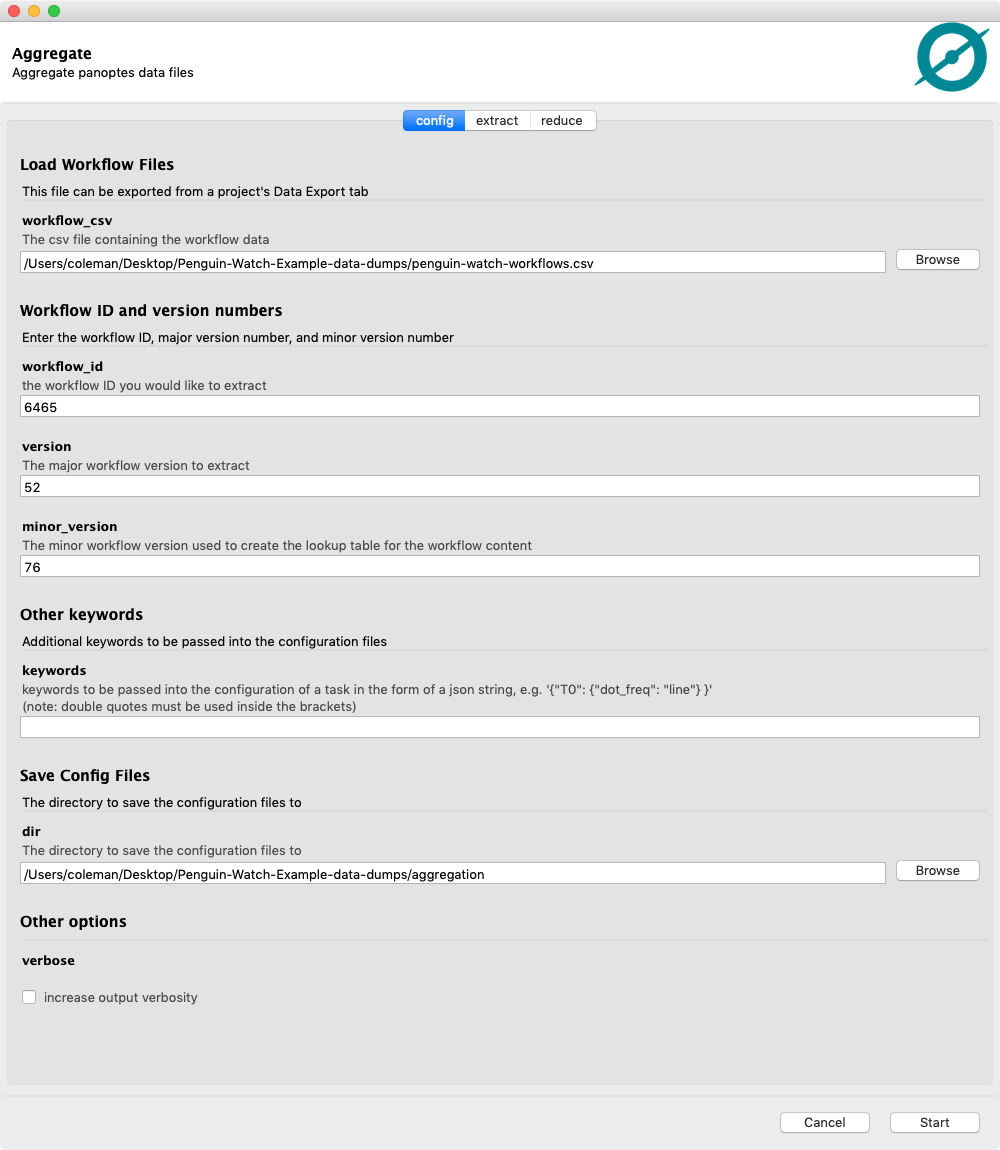
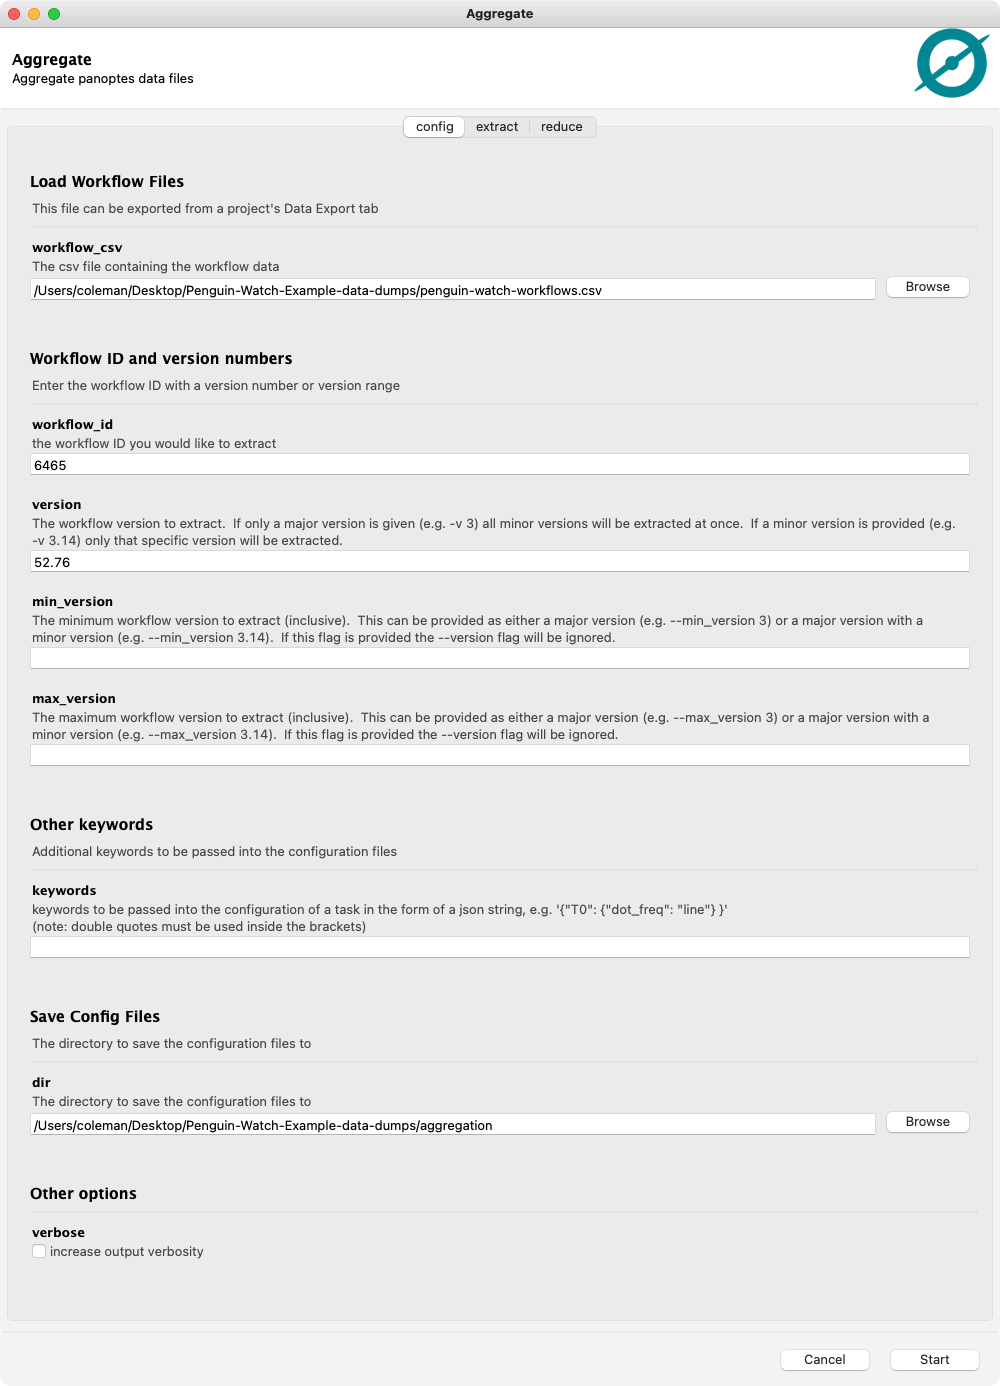
Update documentation
Including GUI screen shots.

diff --git a/panoptes_aggregation/scripts/aggregation_parser.py b/panoptes_aggregation/scripts/aggregation_parser.py
@@ -33,7 +33,7 @@ def main(args=None):
     )
     config_numbers = config_parser.add_argument_group(
         'Workflow ID and version numbers',
-        'Enter the workflow ID, major version number, and minor version number',
+        'Enter the workflow ID with a version number or version range',
         gooey_options={
             'show_border': False,
             'columns': 1

diff --git a/Scripts.md b/Scripts.md
@@ -41,7 +41,9 @@ Use the command line tool to make configuration `yaml` files that are used to se
 
 ```bash
 usage: panoptes_aggregation config [-h] [-d DIR] [-v VERSION]
-                                   [-m MINOR_VERSION] [-k KEYWORDS] [-vv]
+                                   [--min_version MIN_VERSION]
+                                   [--max_version MAX_VERSION] [-k KEYWORDS]
+                                   [-vv]
                                    workflow_csv workflow_id
 
 Make configuration files for panoptes data extraction and reduction based on a
@@ -60,10 +62,23 @@ Workflow ID and version numbers:
 
   workflow_id           the workflow ID you would like to extract
   -v VERSION, --version VERSION
-                        The major workflow version to extract
-  -m MINOR_VERSION, --minor_version MINOR_VERSION
-                        The minor workflow version used to create the lookup
-                        table for the workflow content
+                        The workflow version to extract. If only a major
+                        version is given (e.g. -v 3) all minor versions will
+                        be extracted at once. If a minor version is provided
+                        (e.g. -v 3.14) only that specific version will be
+                        extracted.
+  --min_version MIN_VERSION
+                        The minimum workflow version to extract (inclusive).
+                        This can be provided as either a major version (e.g.
+                        --min_version 3) or a major version with a minor
+                        version (e.g. --min_version 3.14). If this flag is
+                        provided the --version flag will be ignored.
+  --max_version MAX_VERSION
+                        The maximum workflow version to extract (inclusive).
+                        This can be provided as either a major version (e.g.
+                        --max_version 3) or a major version with a minor
+                        version (e.g. --max_version 3.14). If this flag is
+                        provided the --version flag will be ignored.
 
 Other keywords:
   Additional keywords to be passed into the configuration files
@@ -85,7 +100,7 @@ Other options:
 
 ### Example: Penguin Watch
 ```bash
-panoptes_aggregation config penguin-watch-workflows.csv 6465 -v 52 -m 76
+panoptes_aggregation config penguin-watch-workflows.csv 6465 -v 52.76
 ```
 
 This creates four files:
@@ -103,6 +118,7 @@ Use the command line tool to extract your data into one flat `csv` file for each
 
 ```bash
 usage: panoptes_aggregation extract [-h] [-d DIR] [-o OUTPUT] [-O]
+                                    [-c CPU_COUNT] [-vv]
                                     classification_csv extractor_config
 
 Extract data from panoptes classifications based on the workflow
@@ -125,6 +141,10 @@ What directory and base name should be used for the extractions:
 Other options:
   -O, --order           Arrange the data columns in alphabetical order before
                         saving
+  -c CPU_COUNT, --cpu_count CPU_COUNT
+                        How many cpu cores to use during extraction
+  -vv, --verbose        increase output verbosity
+
 ```
 
 ### Example: Penguin Watch
@@ -165,8 +185,8 @@ This creates two `csv` files (one for each extractor listed in the config file):
 Note: this only works for some task types, see the [documentation](https://aggregation-caesar.zooniverse.org/docs) for a full list of supported task types.
 
 ```bash
-usage: panoptes_aggregation reduce [-h] [-F {first,last,all}] [-O] [-d DIR]
-                                   [-o OUTPUT] [-s]
+usage: panoptes_aggregation reduce [-h] [-F {first,last,all}] [-O]
+                                   [-c CPU_COUNT] [-d DIR] [-o OUTPUT] [-s]
                                    extracted_csv reducer_config
 
 reduce data from panoptes classifications based on the extracted data
@@ -192,6 +212,8 @@ Reducer options:
                         for one subject
   -O, --order           Arrange the data columns in alphabetical order before
                         saving
+  -c CPU_COUNT, --cpu_count CPU_COUNT
+                        How many cpu cores to use during reduction
 ```
 
 ### Example: Penguin Watch
